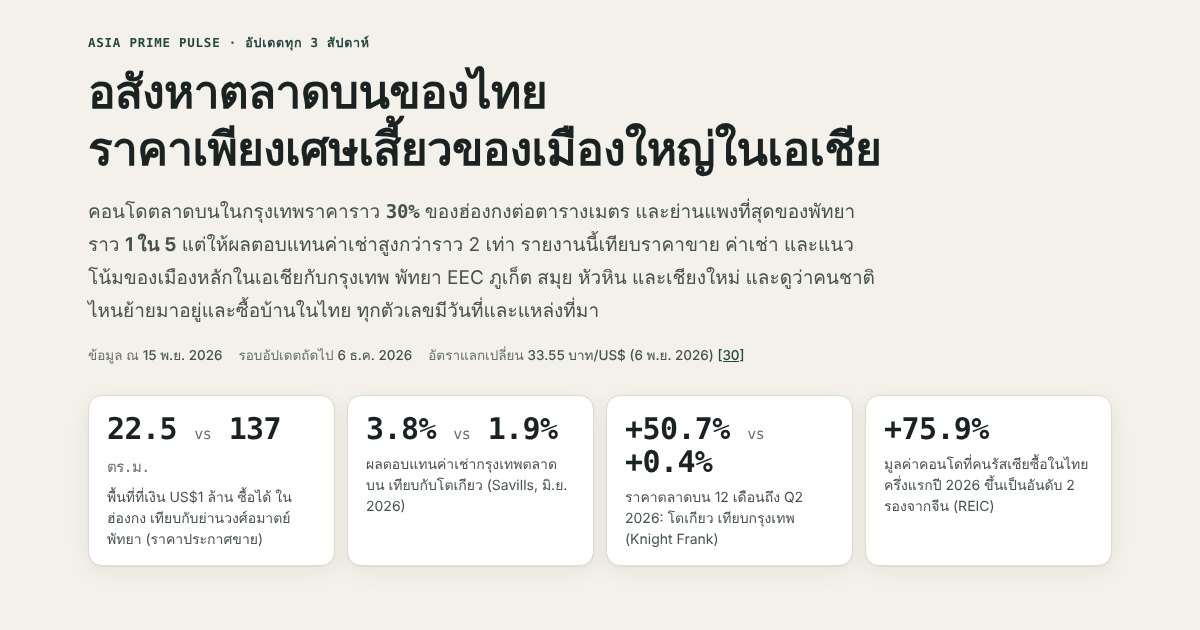
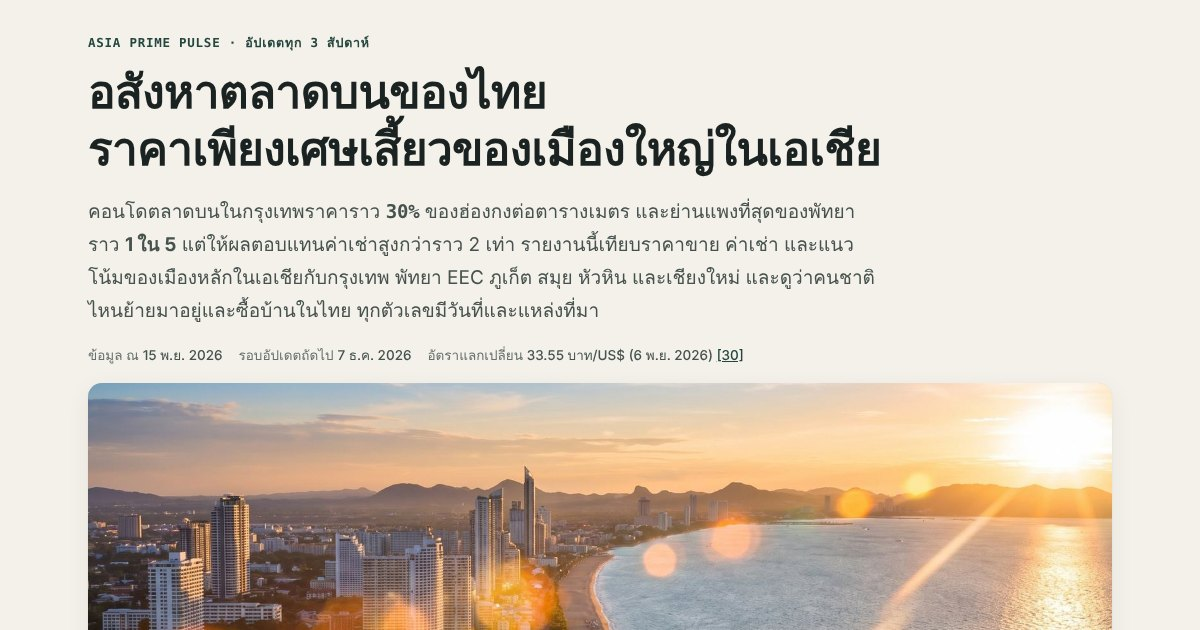
Asia Prime Pulse: add illustrations (hero, Pattaya, EEC concept strip, islands, families, retirees) and a price skyline infographic for Asia's main cities
Claude-Session: https://claude.ai/code/session_01AsfTkuFPSSrtK7wMUMLhmp

diff --git a/AsiaPrimePulse.html b/AsiaPrimePulse.html
@@ -145,6 +145,20 @@ svg g.row text{paint-order:stroke;stroke:var(--surface);stroke-width:3px;stroke-
 svg .ax{fill:var(--muted);font-size:11.5px;font-family:var(--mono)}
 svg .hit{fill:transparent;cursor:default}
 svg .hit:hover+.bar,svg g.row:hover .bar{filter:brightness(1.08)}
+
+figure.ph{margin:16px 0;border-radius:var(--r);overflow:hidden;background:var(--line);position:relative;box-shadow:var(--shadow)}
+figure.ph img{display:block;width:100%;height:auto;aspect-ratio:16/7;object-fit:cover}
+figure.ph.tall img{aspect-ratio:auto;height:100%;min-height:240px}
+figure.ph figcaption{position:absolute;left:10px;bottom:10px;max-width:calc(100% - 20px);font-size:12px;line-height:1.4;color:#fff;background:rgba(10,18,16,.55);backdrop-filter:blur(4px);-webkit-backdrop-filter:blur(4px);padding:4px 9px;border-radius:7px}
+.two figure.ph{margin:0;height:100%}
+.strip{display:grid;grid-template-columns:repeat(3,1fr);gap:8px;margin:4px 0 12px}
+.strip figure{margin:0;border-radius:10px;overflow:hidden;position:relative}
+.strip img{display:block;width:100%;aspect-ratio:4/3;object-fit:cover}
+.strip figcaption{position:absolute;left:6px;bottom:6px;right:6px;font-size:11px;line-height:1.3;color:#fff;background:rgba(10,18,16,.55);padding:3px 6px;border-radius:6px}
+figure.ph.hero-ph img{aspect-ratio:16/6}
+@media(max-width:640px){figure.ph img{aspect-ratio:4/3}figure.ph.hero-ph img{aspect-ratio:16/10}.sky-hint{display:block!important}.strip{grid-template-columns:1fr 1fr 1fr;gap:6px}.strip figcaption{font-size:10px}}
+.sky{overflow-x:auto;-webkit-overflow-scrolling:touch}
+.sky svg{min-width:640px}
 @media print{.top,.toc,details.tbl{display:none}.card{box-shadow:none}}
 </style>
 </head>
@@ -168,6 +182,8 @@ svg .hit:hover+.bar,svg g.row:hover .bar{filter:brightness(1.08)}
  <h1><span data-l="th">อสังหาตลาดบนของไทย<br>ราคาเพียงเศษเสี้ยว<wbr>ของเมืองใหญ่ในเอเชีย</span><span data-l="en">Thailand's prime homes cost a fraction of Asia's gateway cities</span></h1>
  <p class="lead"><span data-l="th">คอนโดตลาดบนในกรุงเทพราคาราว <b class="num">30%</b> ของฮ่องกงต่อตารางเมตร และย่านแพงที่สุดของพัทยาราว <b>1 ใน 5</b> แต่ให้ผลตอบแทนค่าเช่าสูงกว่าราว 2 เท่า รายงานนี้เทียบราคาขาย ค่าเช่า และแนวโน้มของเมืองหลักในเอเชียกับกรุงเทพ พัทยา EEC ภูเก็ต สมุย หัวหิน และเชียงใหม่ และดูว่าคนชาติไหนย้ายมาอยู่และซื้อบ้านในไทย ทุกตัวเลขมีวันที่และแหล่งที่มา</span><span data-l="en">Prime Bangkok costs about <b class="num">30%</b> of Hong Kong per square metre, and Pattaya's priciest zone about <b class="num">a fifth</b>, while rental yields run roughly twice as high. This report compares sale prices, rents and trends in Asia's main cities with Bangkok, Pattaya, the EEC, Phuket, Samui, Hua Hin and Chiang Mai, and looks at which nationalities move to and buy in Thailand. Every figure is dated and sourced.</span></p>
  <div class="meta"><span><span data-l="th">ข้อมูล ณ</span><span data-l="en">Data as of</span> <b id="asOf"></b></span><span><span data-l="th">รอบอัปเดตถัดไป</span><span data-l="en">Next refresh</span> <b id="nextUp"></b></span><span><span data-l="th">อัตราแลกเปลี่ยน</span><span data-l="en">Exchange rate</span> <b id="fx"></b></span></div>
+
+ <figure class="ph hero-ph"><img src="insight/pulse/hero.jpg" alt="Illustration: Jomtien and Pattaya bay at sunset" width="1600" height="893" fetchpriority="high" decoding="async"><figcaption><span data-l="th">ภาพประกอบ: อ่าวจอมเทียนและพัทยายามเย็น</span><span data-l="en">Illustration: Jomtien and Pattaya bay at sunset</span></figcaption></figure>
  <div class="tiles">
   <div class="tile"><div class="v">22.5 <small>vs</small> 137 <small data-l="th">ตร.ม.</small><small data-l="en">sq m</small></div><p><span data-l="th">พื้นที่ที่เงิน US$1 ล้าน ซื้อได้ ในฮ่องกง เทียบกับย่านวงศ์อมาตย์ พัทยา (ราคาประกาศขาย)</span><span data-l="en">What US$1m buys in prime Hong Kong vs Wong Amat, Pattaya (asking prices)</span></p></div>
   <div class="tile"><div class="v">3.8% <small>vs</small> 1.9%</div><p><span data-l="th">ผลตอบแทนค่าเช่าเบื้องต้นกรุงเทพตลาดบน เทียบกับโตเกียว (Savills มิ.ย. 2026 ตัวเลขโตเกียวคำนวณจากข้อมูล Savills)</span><span data-l="en">Prime gross yield, Bangkok vs Tokyo (Savills, Jun 2026; Tokyo calculated from Savills data)</span></p></div>
@@ -210,19 +226,21 @@ svg .hit:hover+.bar,svg g.row:hover .bar{filter:brightness(1.08)}
  <div class="n">02</div>
  <h2><span data-l="th">ราคาตลาดบนต่อตารางเมตร: เอเชีย เทียบไทย</span><span data-l="en">Prime price per square metre: Asia vs Thailand</span></h2>
  <p><span data-l="th">ดัชนีของ Savills จัดให้กรุงเทพตลาดบนอยู่ที่ราว <b class="num">US$12,056</b> ต่อ ตร.ม. (มิ.ย. 2026) ใกล้เคียงมุมไบและดูไบ เท่ากับราว 30% ของฮ่องกง 36% ของโตเกียว และ 61% ของสิงคโปร์ ข้อควรรู้คือ ราคาพัทยาและภูเก็ตตลาดบนไม่ได้ถูกระดับกัวลาลัมเปอร์ ย่านริมหาดที่ดีที่สุดแพงกว่าตลาดบนของ KL ราว 2.4–3.3 เท่า มีเพียงราคาเฉลี่ยทั้งตลาดพัทยา (ราว US$2,981) ที่ใกล้ KL</span><span data-l="en">Savills puts prime Bangkok at about <b class="num">US$12,056</b> per sq m (June 2026), level with Mumbai and Dubai and roughly 30% of Hong Kong, 36% of Tokyo and 61% of Singapore. One correction to a common pitch: prime Pattaya and Phuket are not "Kuala Lumpur cheap". Their best beachfront zones cost about 2.4–3.3 times KL's prime basket; only Pattaya's market-wide average (about US$2,981) sits near KL.</span></p>
+ <div class="card">
+  <h4><span data-l="th">ถ้าราคาต่อตารางเมตรเป็นความสูงของตึก</span><span data-l="en">If price per square metre were building height</span></h4>
+  <p class="sub"><span data-l="th">เมืองหลักในเอเชีย ดัชนีตลาดบน Savills · US$ ต่อ ตร.ม. · มิ.ย. 2026 · กรุงเทพเป็นสีน้ำเงิน</span><span data-l="en">Asia's main cities, Savills prime index · US$ per sq m · June 2026 · Bangkok in blue</span></p>
+  <div class="chart sky" id="c-asia"></div>
+  <p class="src sky-hint" style="display:none"><span data-l="th">เลื่อนกราฟไปทางซ้ายเพื่อดูทุกเมือง →</span><span data-l="en">Swipe the chart to see every city →</span></p>
+  <p class="src" data-src="asia"></p>
+ </div>
  <div class="two">
-  <div class="card">
-   <h4><span data-l="th">เมืองหลักในเอเชีย (ดัชนีตลาดบน Savills)</span><span data-l="en">Asia's main cities (Savills prime index)</span></h4>
-   <p class="sub"><span data-l="th">US$ ต่อ ตร.ม. · มิ.ย. 2026 · ใช้ดัชนีเดียวกันทั้งกราฟ</span><span data-l="en">US$ per sq m · June 2026 · one index for the whole chart</span></p>
-   <div class="chart" id="c-asia"></div>
-   <p class="src" data-src="asia"></p>
-  </div>
   <div class="card">
    <h4><span data-l="th">บันไดราคาตลาดบนในไทย</span><span data-l="en">Thailand's upper-market price ladder</span></h4>
    <p class="sub"><span data-l="th">US$ ต่อ ตร.ม. · แหล่งข้อมูลต่างกันในแต่ละแถว · แท่งลาย = ราคาประกาศขาย · เส้นประ = ตลาดบน KL</span><span data-l="en">US$ per sq m · sources differ by row · striped = asking prices · dashed line = KL prime</span></p>
    <div class="chart" id="c-thai"></div>
    <p class="src" data-src="thai"></p>
   </div>
+  <figure class="ph tall"><img src="insight/pulse/pool.jpg" alt="Illustration: a prime sea-view condo in Pattaya" width="720" height="405" loading="lazy" decoding="async"><figcaption><span data-l="th">ภาพประกอบ: คอนโดตลาดบนวิวทะเลพัทยา</span><span data-l="en">Illustration: a prime sea-view condo in Pattaya</span></figcaption></figure>
  </div>
 </section>
 
@@ -266,10 +284,13 @@ svg .hit:hover+.bar,svg g.row:hover .bar{filter:brightness(1.08)}
   <div class="chart" id="c-yield"></div>
   <p class="src" data-src="yield"></p>
  </div>
+ <div class="two">
  <div class="card">
   <h4><span data-l="th">ค่าเช่ารายเดือน ตัวอย่างสำหรับเทียบ</span><span data-l="en">Monthly rents, for comparison</span></h4>
   <div class="tw"><table id="t-rent"></table></div>
   <p class="src" data-src="rent"></p>
+ </div>
+ <figure class="ph tall"><img src="insight/pulse/sunsetpool.jpg" alt="Illustration: a pool over the Gulf of Thailand" width="720" height="405" loading="lazy" decoding="async"><figcaption><span data-l="th">ภาพประกอบ: สระว่ายน้ำวิวอ่าวไทย</span><span data-l="en">Illustration: a pool over the Gulf of Thailand</span></figcaption></figure>
  </div>
 </section>
 
@@ -278,6 +299,7 @@ svg .hit:hover+.bar,svg g.row:hover .bar{filter:brightness(1.08)}
  <div class="n">05</div>
  <h2><span data-l="th">เจาะพัทยาและ EEC: ตลาดบนริมหาดขยับขึ้น ตลาดกลางยังต้องระบายของ</span><span data-l="en">Pattaya and the EEC: beachfront re-rates while the mass market digests</span></h2>
  <p><span data-l="th">ปี 2019 โครงการดีที่สุดของวงศ์อมาตย์เฉลี่ยเกิน 160,000 บาท/ตร.ม. ปี 2024 โครงการริมหาดระดับซูเปอร์ลักชัวรีเปิดที่ 250,000 บาทขึ้นไป บางโครงการประกาศเกิน 330,000 บาท ราคาเปิดตัวระดับท็อปจึงขึ้นราวเท่าตัวในห้าปี ซึ่งเรามองว่ามาจากสินค้าใหม่ที่เกรดสูงขึ้น มากกว่าห้องเดิมขึ้นราคา ขณะที่ราคาเฉลี่ยทั้งตลาดพัทยาอยู่ราว 100,000 บาท โครงการเปิดใหม่ลดจาก 15,545 ยูนิตในปี 2019 เป็น 7,897 ยูนิตในปี 2024 และเพียง 1,716 ยูนิตในครึ่งหลังปี 2025 ในมุมมองของเรา ของใหม่ที่น้อยลงช่วยพยุงราคาตลาดบนในปี 2026–2027</span><span data-l="en">In 2019 Wong Amat's best projects averaged over THB 160,000/sq m. By 2024 beachfront super-luxury launches started at THB 250,000+, with some asking over THB 330,000, so top launch prices roughly doubled in five years, which we read as new product entering at a higher grade rather than existing units appreciating. Pattaya's market-wide average is about THB 100,000. Launches fell from 15,545 units in 2019 to 7,897 in 2024 and just 1,716 in H2 2025; in our view, thin new supply supports top-end pricing in 2026–2027.</span></p>
+ <figure class="ph"><img src="insight/pulse/beach-aerial.jpg" alt="Illustration: Jomtien beach from above" width="960" height="536" loading="lazy" decoding="async"><figcaption><span data-l="th">ภาพประกอบ: ชายหาดจอมเทียนจากมุมสูง</span><span data-l="en">Illustration: Jomtien beach from above</span></figcaption></figure>
  <div class="two">
   <div class="card">
    <h4><span data-l="th">ราคาประกาศขายคอนโดพัทยา แยกตามย่าน</span><span data-l="en">Pattaya condo asking prices by zone</span></h4>
@@ -297,6 +319,8 @@ svg .hit:hover+.bar,svg g.row:hover .bar{filter:brightness(1.08)}
  <p><span data-l="th">REIC นับที่อยู่อาศัยเหลือขายในชลบุรี ระยอง และฉะเชิงเทรา <b class="num">64,644</b> ยูนิต มูลค่ากว่า 270,000 ล้านบาท (ครึ่งแรก 2025) ปัญหาหลักอยู่ที่ทาวน์เฮาส์ราคา 1–3 ล้านบาท ระยองไม่มีคอนโดเปิดใหม่เลย ยังไม่มีข้อมูลราคาตลาดบนต่อ ตร.ม. ของศรีราชา บางแสน ระยอง และฉะเชิงเทรา หน้านี้จึงไม่ใส่ตัวเลขประมาณการ</span><span data-l="en">REIC counted <b class="num">64,644</b> unsold homes worth over THB 270bn in Chonburi, Rayong and Chachoengsao (H1 2025), with the problem band in THB 1–3m townhouses; Rayong had no new condo launches. No luxury per-sq m figures exist for Sriracha, Bang Saen, Rayong or Chachoengsao, so this page does not estimate one.</span></p>
  <div class="card">
   <h4><span data-l="th">โครงสร้างพื้นฐาน EEC: สถานะ พ.ย. 2026</span><span data-l="en">EEC infrastructure: status, Nov 2026</span></h4>
+  <div class="strip"><figure><img src="insight/pulse/airport.jpg" alt="Airport" width="960" height="536" loading="lazy" decoding="async"><figcaption><span data-l="th">สนามบิน</span><span data-l="en">Airport</span></figcaption></figure><figure><img src="insight/pulse/rail.jpg" alt="Airport rail" width="960" height="536" loading="lazy" decoding="async"><figcaption><span data-l="th">รถไฟเชื่อมสนามบิน</span><span data-l="en">Airport rail</span></figcaption></figure><figure><img src="insight/pulse/eeciti.jpg" alt="EEC new city" width="960" height="536" loading="lazy" decoding="async"><figcaption><span data-l="th">เมืองใหม่ EEC</span><span data-l="en">EEC new city</span></figcaption></figure></div>
+  <p class="sub"><span data-l="th">ภาพประกอบแนวคิด ไม่ใช่ภาพโครงการจริง</span><span data-l="en">Concept illustrations, not photos of the actual projects</span></p>
   <ul class="tl" id="tl-eec"></ul>
   <p class="src" data-src="eec"></p>
  </div>
@@ -307,6 +331,7 @@ svg .hit:hover+.bar,svg g.row:hover .bar{filter:brightness(1.08)}
 <section class="s" id="resorts">
  <div class="n">06</div>
  <h2><span data-l="th">ภูเก็ต สมุย หัวหิน เชียงใหม่: สี่ตลาด สี่แบบ</span><span data-l="en">Phuket, Samui, Hua Hin, Chiang Mai: four different markets</span></h2>
+ <figure class="ph"><img src="insight/pulse/island.jpg" alt="Illustration: Thailand's islands, a second home for foreign buyers" width="960" height="536" loading="lazy" decoding="async"><figcaption><span data-l="th">ภาพประกอบ: ทะเลอันดามันและอ่าวไทย บ้านหลังที่สองของผู้ซื้อต่างชาติ</span><span data-l="en">Illustration: Thailand's islands, a second home for foreign buyers</span></figcaption></figure>
  <div class="pts" id="resortCards"></div>
 </section>
 
@@ -327,6 +352,7 @@ svg .hit:hover+.bar,svg g.row:hover .bar{filter:brightness(1.08)}
  <div class="n">08</div>
  <h2><span data-l="th">คนชาติไหนย้ายมาอยู่ไทยมากที่สุด</span><span data-l="en">Which countries send the most people to live in Thailand</span></h2>
  <p><span data-l="th">ข้อมูลกองประชากรสหประชาชาติ (UN DESA 2024) นับคนที่เกิดนอกไทยแต่อาศัยในไทยได้ <b class="num">3,179,399</b> คน หรือ 4.4% ของประชากร เพิ่มจาก 287,933 คนในปี 1990 สามประเทศเพื่อนบ้าน เมียนมา กัมพูชา และลาว รวมกันราว 75% อันดับรองลงมาเป็นกลุ่มที่ตลาดบ้านระดับบนสนใจ ได้แก่ สหราชอาณาจักร ญี่ปุ่น จีน อินเดีย สหรัฐฯ เยอรมนี และฝรั่งเศส ตัวเลขนี้เป็นค่าต่ำสุด เพราะแทบไม่นับแรงงานไม่มีเอกสาร รายงานการย้ายถิ่นของไทยปี 2024 ประเมินคนที่ไม่ได้ถือสัญชาติไทยไว้ราว 5.35 ล้านคน</span><span data-l="en">The UN's population division (UN DESA 2024) counts <b class="num">3,179,399</b> foreign-born residents in Thailand, 4.4% of the population, up from 287,933 in 1990. Myanmar, Cambodia and Laos make up about 75%. The next names are the ones an upper-market network cares about: the UK, Japan, China, India, the USA, Germany and France. Treat the UN figure as a minimum, because it largely misses undocumented workers; the 2024 Thailand Migration Report puts non-Thai nationals at about 5.35 million.</span></p>
+ <figure class="ph"><img src="insight/pulse/family.jpg" alt="Illustration: a foreign family moving to Thailand" width="960" height="536" loading="lazy" decoding="async"><figcaption><span data-l="th">ภาพประกอบ: ครอบครัวต่างชาติย้ายมาอยู่ไทย</span><span data-l="en">Illustration: a foreign family moving to Thailand</span></figcaption></figure>
  <div class="two">
   <div class="card">
    <h4><span data-l="th">10 ประเทศต้นทางอันดับแรก (2024)</span><span data-l="en">Top 10 countries of origin (2024)</span></h4>
@@ -406,6 +432,7 @@ svg .hit:hover+.bar,svg g.row:hover .bar{filter:brightness(1.08)}
  <div class="n">10</div>
  <h2><span data-l="th">ใช้ข้อมูลนี้คุยกับลูกค้าอย่างไร</span><span data-l="en">How to use this with clients</span></h2>
  <p><span data-l="th">จุดขายของไทยไม่ใช่ "ถูกที่สุดในเอเชีย" แต่คือ "ไลฟ์สไตล์ระดับเมืองใหญ่ ในราคา 20–35% ของเมืองใหญ่ และผลตอบแทนราว 2 เท่า" ประโยคที่บอกตรงๆ ถึงข้อจำกัดด้านล่าง จะทำให้ลูกค้าต่างชาติที่มีประสบการณ์เชื่อถือมากกว่า</span><span data-l="en">Thailand's case is not "cheapest in Asia". It is "gateway-city lifestyle at 20–35% of the gateway-city price, with about twice the yield". Stating the limits below plainly makes you more credible to experienced foreign buyers.</span></p>
+ <figure class="ph"><img src="insight/pulse/couple.jpg" alt="Illustration: foreign retirees, long-stay buyers and renters" width="960" height="536" loading="lazy" decoding="async"><figcaption><span data-l="th">ภาพประกอบ: ผู้เกษียณชาวต่างชาติ กลุ่มที่ซื้อและเช่าระยะยาว</span><span data-l="en">Illustration: foreign retirees, long-stay buyers and renters</span></figcaption></figure>
  <div class="pts" id="agentCards"></div>
 </section>
 
@@ -782,6 +809,24 @@ function cols(id,rows){
   const tx=el("text",{x:x+bw/2,y:H-8,"text-anchor":"middle",class:"ax"},svg);tx.textContent=d[0];
   const hit=el("rect",{x:l+step*i,y:0,width:step,height:H,class:"hit"},svg);bindTip(hit,`${d[0]}<br><b>${fmt(d[1])}</b> ${L==="th"?"ยูนิต":"units"} · <b>${d[2]}</b> ${L==="th"?"พันล้านบาท":"THB bn"}${half?`<br>${L==="th"?"ครึ่งปี":"half year"}`:""}`)});
 }
+/* skyline: tower height = value */
+function skyline(id,rows){
+ const box=document.getElementById(id);if(!box)return;box.innerHTML="";
+ const W=Math.max(640,box.clientWidth),H=330,base=H-46,top=30,n=rows.length,slot=(W-8)/n,tw=Math.min(54,slot*.6),max=Math.max(...rows.map(r=>r.v));
+ const svg=el("svg",{viewBox:`0 0 ${W} ${H}`,role:"img","aria-label":"skyline"},box);
+ const d=el("defs",{},svg);
+ [["wa",css("--as")],["wt",css("--th")]].forEach(([pid,c])=>{const p=el("pattern",{id:pid,width:8,height:10,patternUnits:"userSpaceOnUse"},d);el("rect",{width:8,height:10,fill:c},p);el("rect",{x:2,y:3,width:4,height:4,rx:.8,fill:css("--surface"),"fill-opacity":.42},p)});
+ el("line",{x1:0,x2:W,y1:base,y2:base,stroke:css("--ink2"),"stroke-width":1.5},svg);
+ [10000,20000,30000,40000].forEach(v=>{const y=base-(base-top)*v/max;el("line",{x1:0,x2:W,y1:y,y2:y,stroke:css("--grid"),"stroke-dasharray":"2 4"},svg);const tx=el("text",{x:2,y:y-4,class:"ax"},svg);tx.textContent="$"+fmt(v/1000)+"k"});
+ rows.forEach((r,i)=>{const cx=4+slot*i+slot/2,h=(base-top)*r.v/max,x=cx-tw/2,y=base-h,g=el("g",{class:"row"},svg),th=r.g==="th",fill=th?"url(#wt)":"url(#wa)",roof=i%3;
+  el("rect",{x,y,width:tw,height:h,fill,rx:2},g);
+  if(roof===1&&h>40){el("rect",{x:x+tw*.2,y:y-8,width:tw*.6,height:8,fill:th?css("--th"):css("--as"),rx:1.5},g)}
+  if(roof===2&&h>40){el("line",{x1:cx,x2:cx,y1:y-14,y2:y,stroke:th?css("--th"):css("--as"),"stroke-width":2},g)}
+  const vt=el("text",{x:cx,y:y-(roof===2?18:roof===1?12:6),"text-anchor":"middle",class:"vl"},g);vt.textContent=fmt(r.v);
+  const nm=t(r).replace(" (อ้างอิง)","").replace(" (ref.)",""),parts=nm.length>9&&nm.includes(" ")?nm.split(" "):[nm];
+  parts.slice(0,2).forEach((p,k)=>{const lt=el("text",{x:cx,y:base+16+k*14,"text-anchor":"middle"},g);lt.textContent=p;if(th)lt.setAttribute("style","fill:var(--ink);font-weight:600")});
+  const hit=el("rect",{x:cx-slot/2,y:0,width:slot,height:H,class:"hit"},g);bindTip(hit,`${esc(t(r))}<br><b>US$${fmt(r.v)}</b> / ${L==="th"?"ตร.ม.":"sq m"} · Savills`)});
+}
 /* tables */
 function table(id,head,rows){const tb=document.getElementById(id);if(!tb)return;tb.innerHTML="<thead><tr>"+head.map(h=>`<th${h.r?' class="r"':""}>${esc(t(h))}</th>`).join("")+"</tr></thead><tbody>"+rows.map(r=>"<tr>"+r.map((c,i)=>`<td${head[i].r?' class="r"':""}>${c}</td>`).join("")+"</tr>").join("")+"</tbody>"}
 function tblFor(rows,unit,dec){return `<details class="tbl"><summary>${L==="th"?"ดูเป็นตาราง":"Show as a table"}</summary><div class="tw"><table><thead><tr><th>${L==="th"?"รายการ":"Item"}</th><th class="r">${esc(t(unit))}</th><th>${L==="th"?"ป้าย":"Flag"}</th></tr></thead><tbody>${rows.map(r=>`<tr><td>${esc(t(r))}${r.n?` <small>(${esc(t(r.n))})</small>`:""}</td><td class="r">${fmt(r.v,dec)}${r.lo!=null?` (${r.lo}–${r.hi})`:""}</td><td>${flag(r.f)}</td></tr>`).join("")}</tbody></table></div></details>`}
@@ -795,7 +840,7 @@ function render(){
  document.querySelectorAll("[data-src]").forEach(p=>{const k=p.dataset.src;p.innerHTML=(L==="th"?"ที่มา: ":"Sources: ")+sref(P.srcMap[k])});
  const sq={th:"ตร.ม.",en:"sq m"},usq={th:"US$/ตร.ม.",en:"US$/sq m"};
  hbar("c-buys",P.buys.rows,{unit:sq,dec:1,vf:v=>fmt(v,1),tf:v=>fmt(v)});addTbl("c-buys",P.buys.rows,sq,1);
- hbar("c-asia",P.asia.rows,{unit:usq,tf:v=>v>=1000?fmt(v/1000)+"k":v,vf:v=>fmt(v)});addTbl("c-asia",P.asia.rows,usq,0);
+ skyline("c-asia",P.asia.rows);addTbl("c-asia",P.asia.rows,usq,0);
  hbar("c-thai",P.thai.rows,{unit:usq,ref:P.thai.ref,tf:v=>v>=1000?fmt(v/1000)+"k":v});addTbl("c-thai",P.thai.rows,usq,0);
  dbar("c-chg",P.chg.rows,{avg:P.chg.avg});addTbl("c-chg",P.chg.rows,{th:"% (12 เดือน)",en:"% (12 months)"},1);
  dumb("c-db",P.db.rows);
